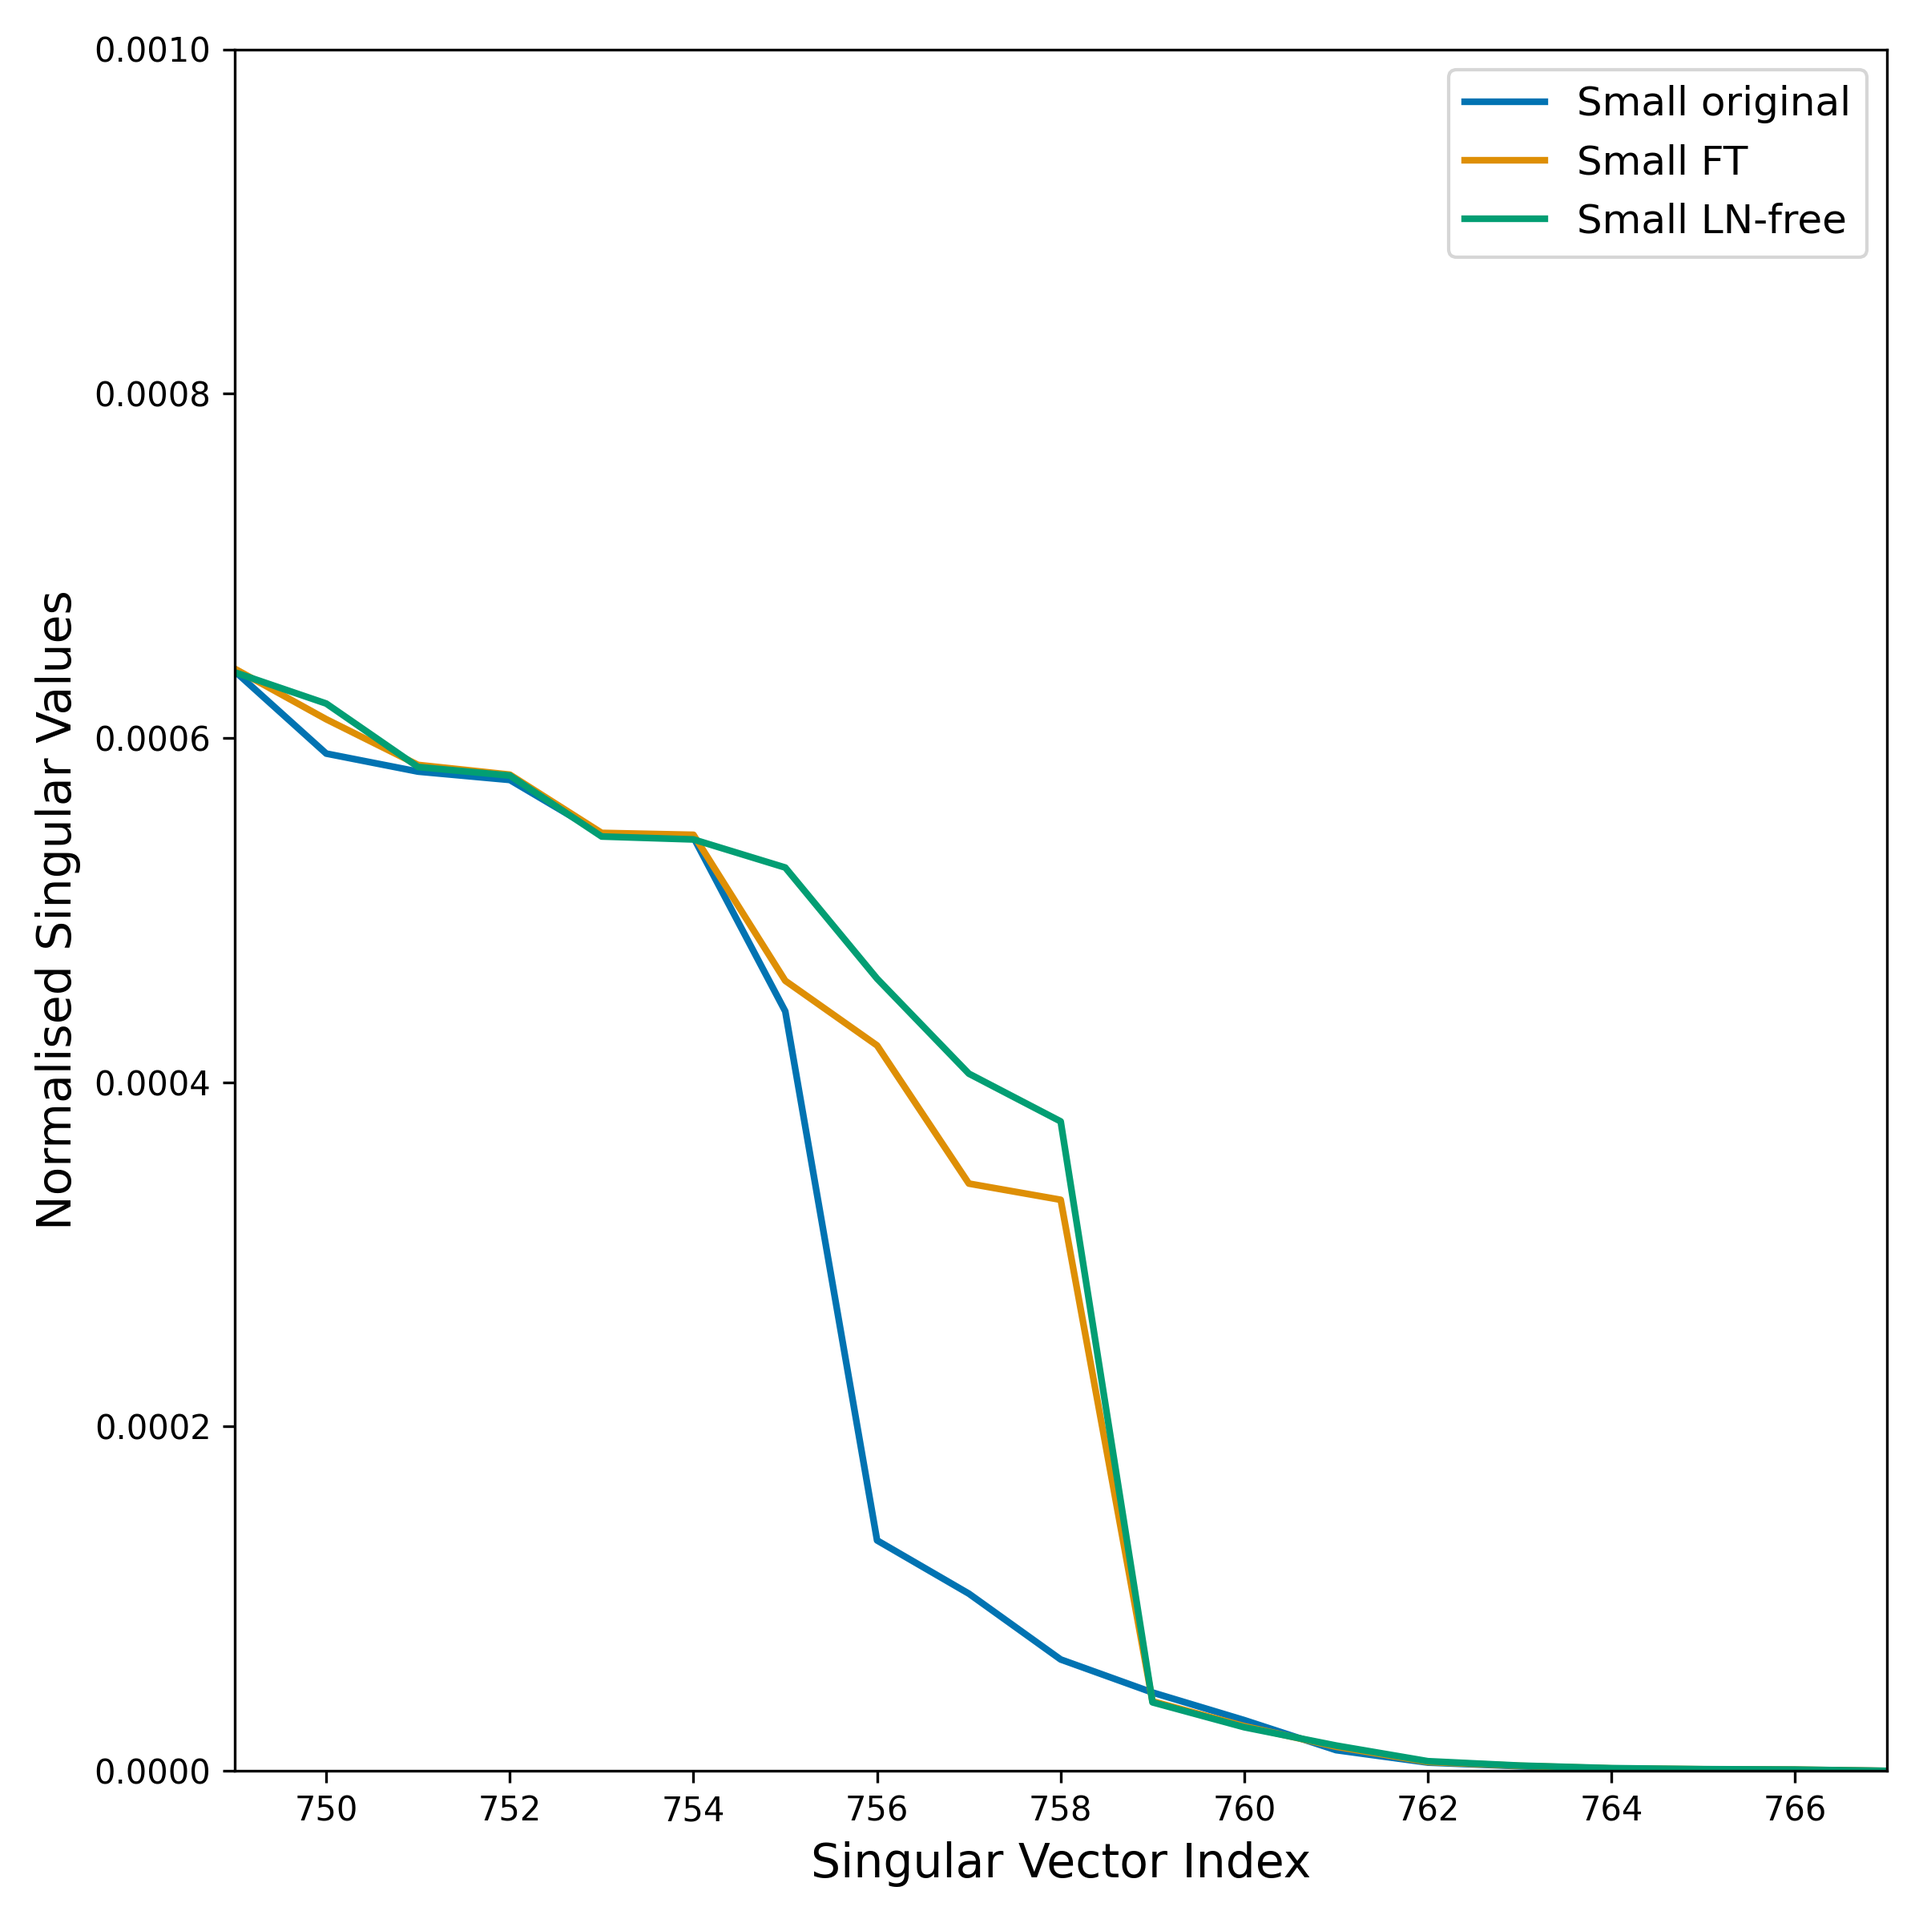
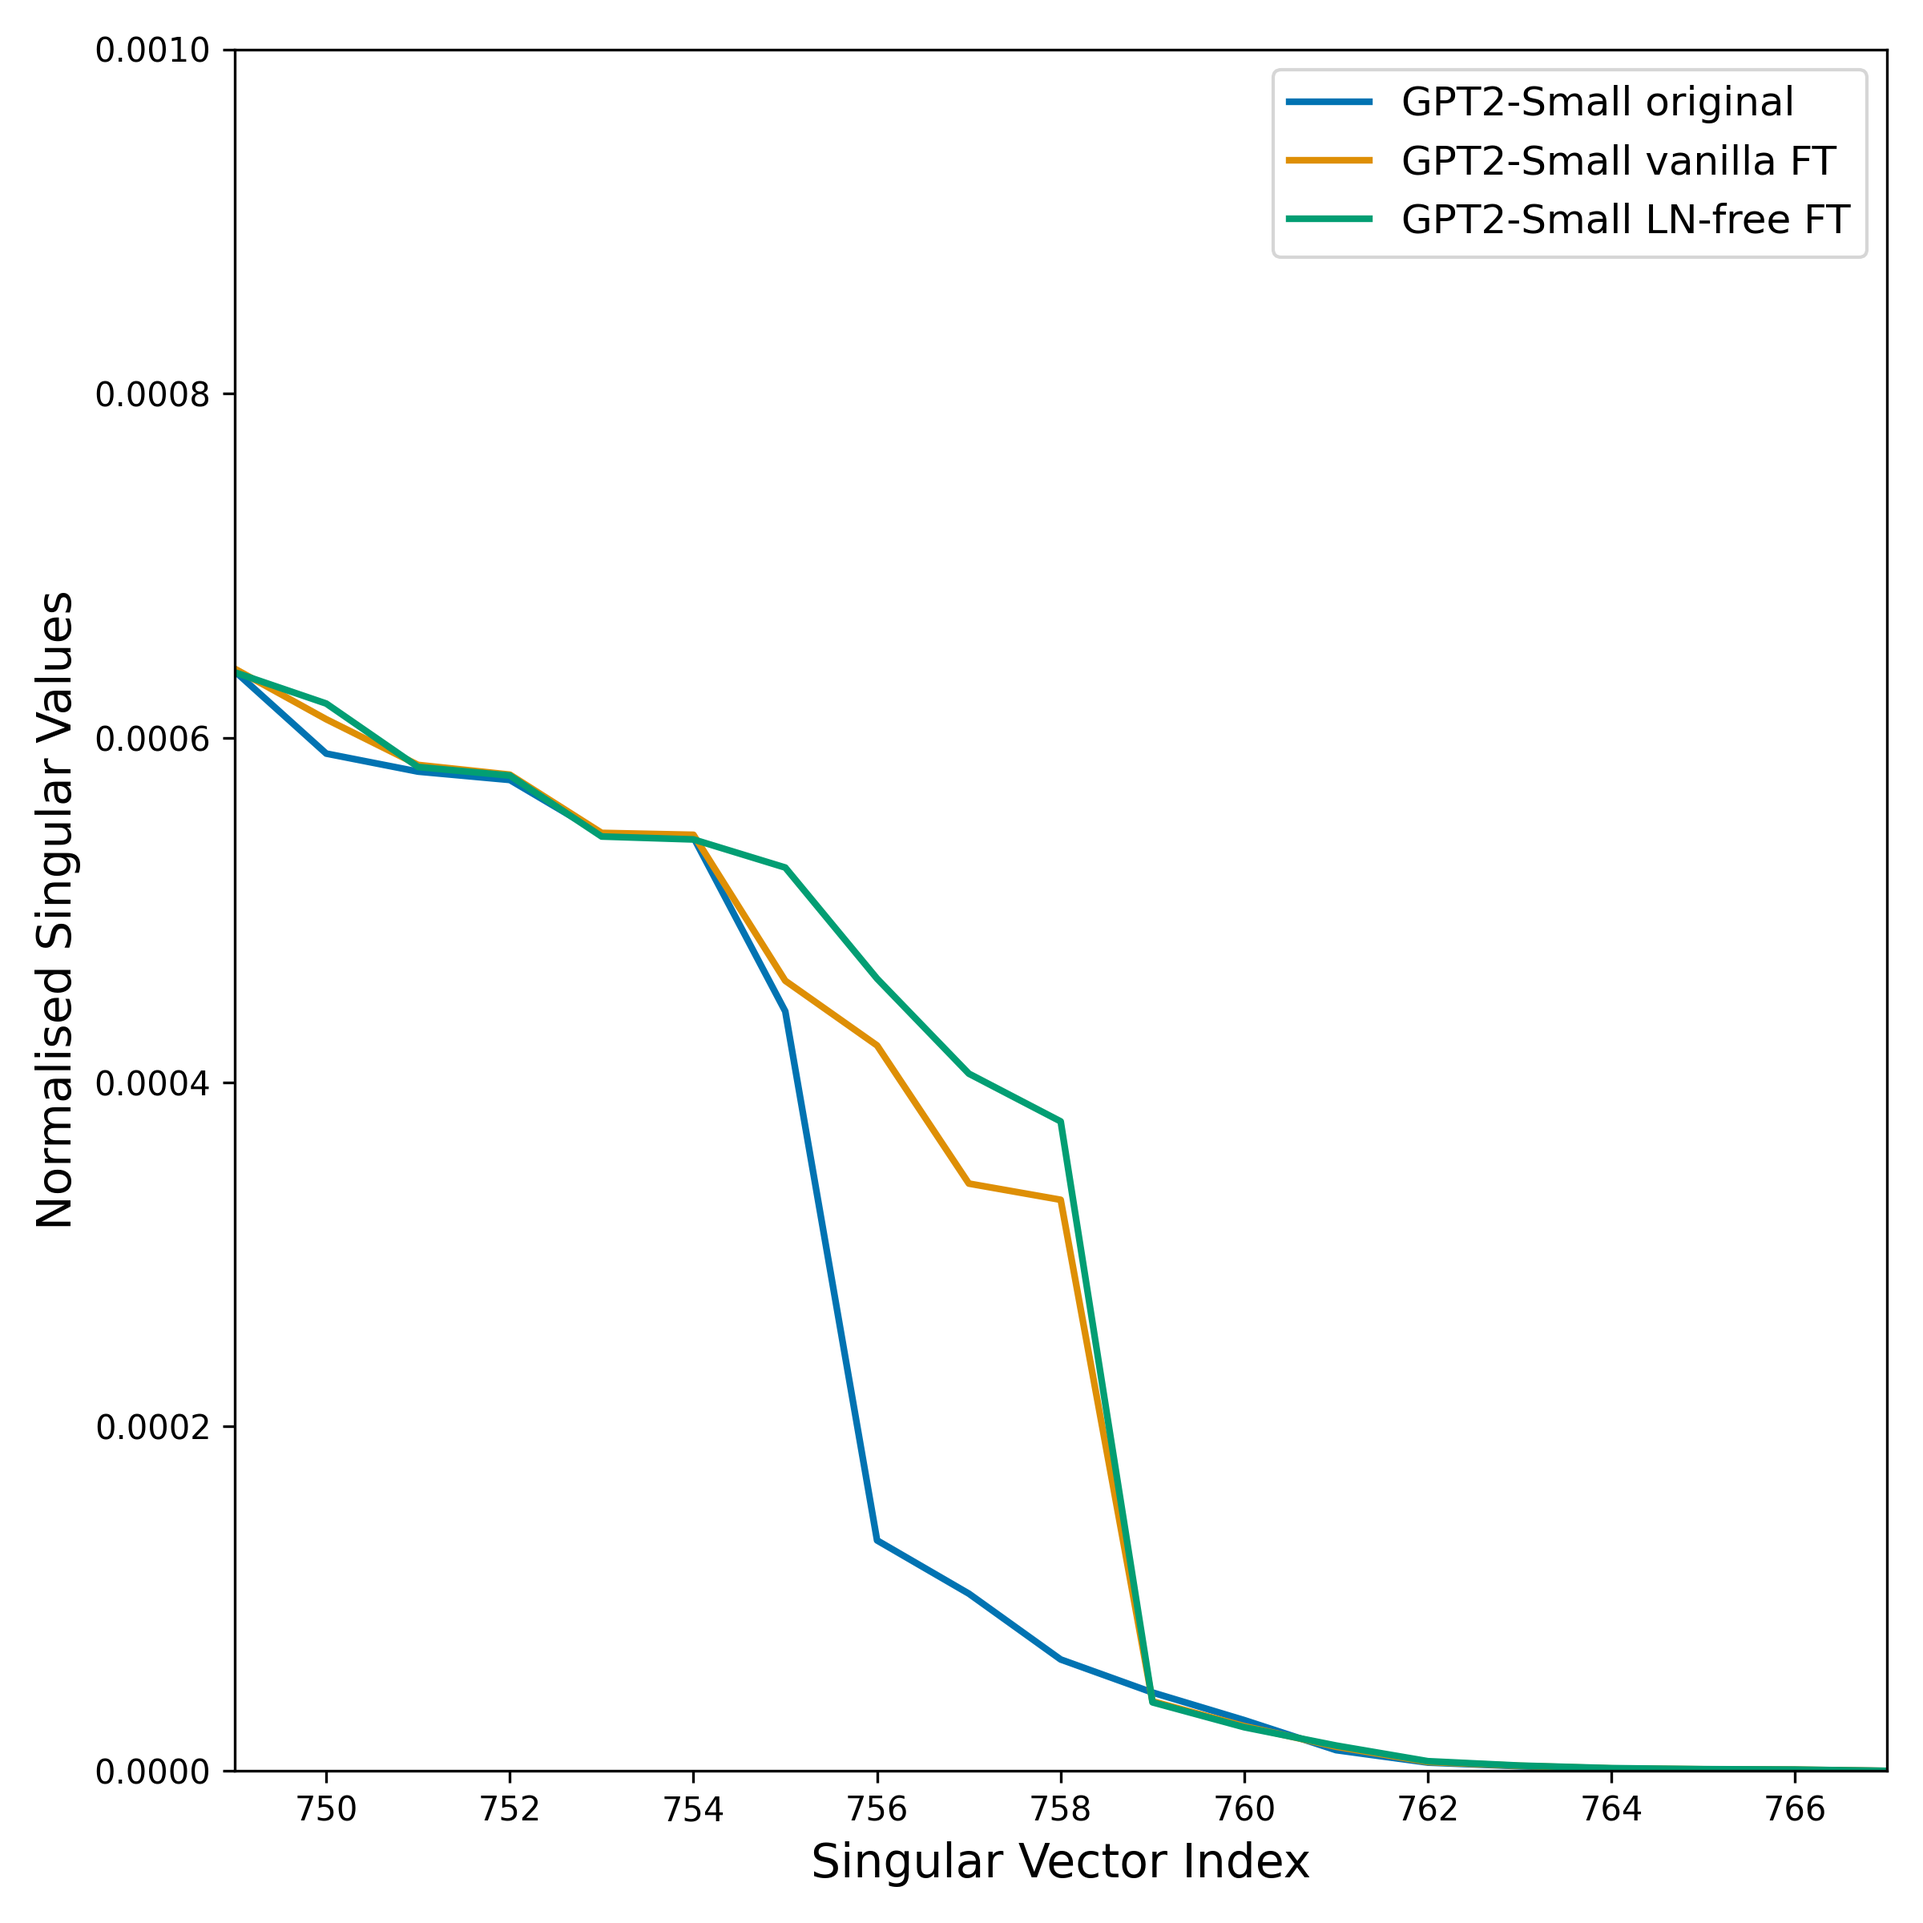
entropy neurons finalised

Changed region(s): [[0.6562, 0.0312, 0.9688, 0.125]]

diff --git a/mech_interp/entropy_neurons/ablate_all_models.py b/mech_interp/entropy_neurons/ablate_all_models.py
@@ -43,7 +43,7 @@ class AblationAnalyzer:
         
         self.dataloader = DataLoader(
                 dataset_name="luca-pile",
-                batch_size=5,
+                batch_size=1,
                 max_context=512,
                 num_samples=250,
                 prepend_bos=False
@@ -339,9 +339,9 @@ def plot_model_comparison(model_results, model_type='small', save_path=None, met
     }) 
     model_type = model_type.capitalize()
     model_labels = {
-            'baseline': f'{model_type} original',
-            'finetuned': f'{model_type} FT',
-            'noLN': f'{model_type} LN-free'
+            'baseline': f'GPT2-{model_type} original',
+            'finetuned': f'GPT2-{model_type} vanilla FT',
+            'noLN': f'GPT2-{model_type} LN-free FT'
         }
     
     # Set plot strings based on metric
@@ -501,10 +501,10 @@ def print_ablation_summary(model_results):
    
     
 if __name__ == "__main__":
-    entropy_neuron_indices = [584, 2123, 2870]  # Small
-    #entropy_neuron_indices = [3144, 1083, 1108] # Medium
+    #entropy_neuron_indices = [584, 2123, 2870]  # Small
+    entropy_neuron_indices = [3144, 1083, 1108] # Medium
     models = ['baseline', 'finetuned', 'noLN']
-    model_size = 'small'
+    model_size = 'medium'
     save_path = f'figures/{model_size}'
     os.makedirs(save_path, exist_ok=True)
 

diff --git a/mech_interp/entropy_neurons/cumulative_ablation.py b/mech_interp/entropy_neurons/cumulative_ablation.py
@@ -315,10 +315,10 @@ class CumulativeAblation:
         return loss, entropy
    
 if __name__ == "__main__":
-    entropy_neuron_indices = [584, 2123, 2870]  # Small
-    #entropy_neuron_indices = [3144, 1083, 1108] # Medium
+    #entropy_neuron_indices = [584, 2123, 2870]  # Small
+    entropy_neuron_indices = [3144, 1083, 1108] # Medium
     models = ['baseline', 'finetuned', 'noLN']
-    model_size = 'small'
+    model_size = 'medium'
     save_path = f'figures/{model_size}'
     os.makedirs(save_path, exist_ok=True)
     model_results = {}
@@ -360,9 +360,9 @@ if __name__ == "__main__":
     }) 
     model_str = model_size.capitalize()
     model_labels = {
-            'baseline': f'{model_str} original',
-            'finetuned': f'{model_str} FT',
-            'noLN': f'{model_str} LN-free'
+            'baseline': f'GPT2-{model_str} original',
+            'finetuned': f'GPT2-{model_str} vanilla FT',
+            'noLN': f'GPT2-{model_str} LN-free FT'
         }    
     # Get default matplotlib colors
     colors = sns.color_palette("colorblind")

diff --git a/mech_interp/entropy_neurons/svd_comparison.py b/mech_interp/entropy_neurons/svd_comparison.py
@@ -17,7 +17,7 @@ from load_models import ModelFactory
 
 # %%
 num_neurons = 7
-model_size = 'small'
+model_size = 'medium'
 save_path = f'figures/{model_size}'
 os.makedirs(save_path, exist_ok=True)
 
@@ -33,9 +33,9 @@ colors = sns.color_palette("colorblind")
 
 model_type = model_size.capitalize()
 model_labels = {
-            'baseline': f'{model_type} original',
-            'finetuned': f'{model_type} FT',
-            'noLN': f'{model_type} LN-free'
+            'baseline': f'GPT2-{model_type} original',
+            'finetuned': f'GPT2-{model_type} vanilla FT',
+            'noLN': f'GPT2-{model_type} LN-free FT'
         }
 
 model_colors = {
